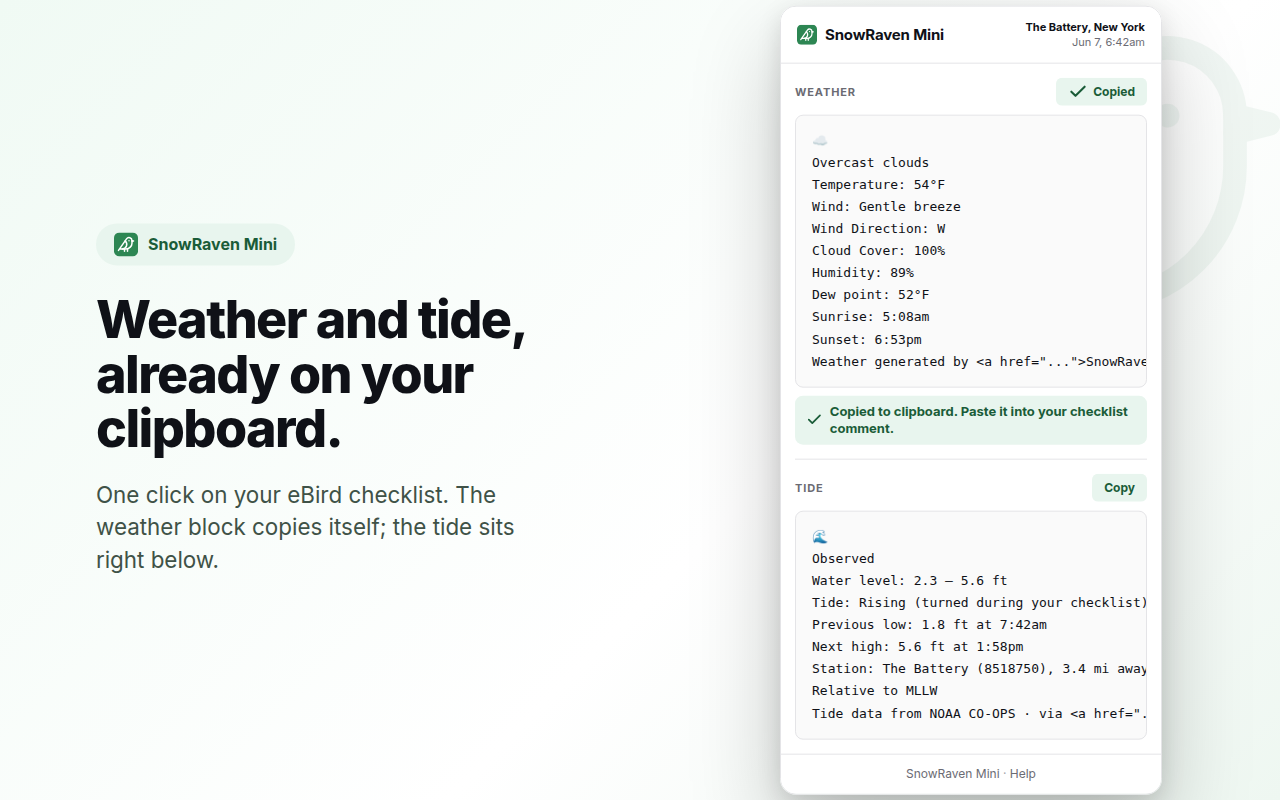
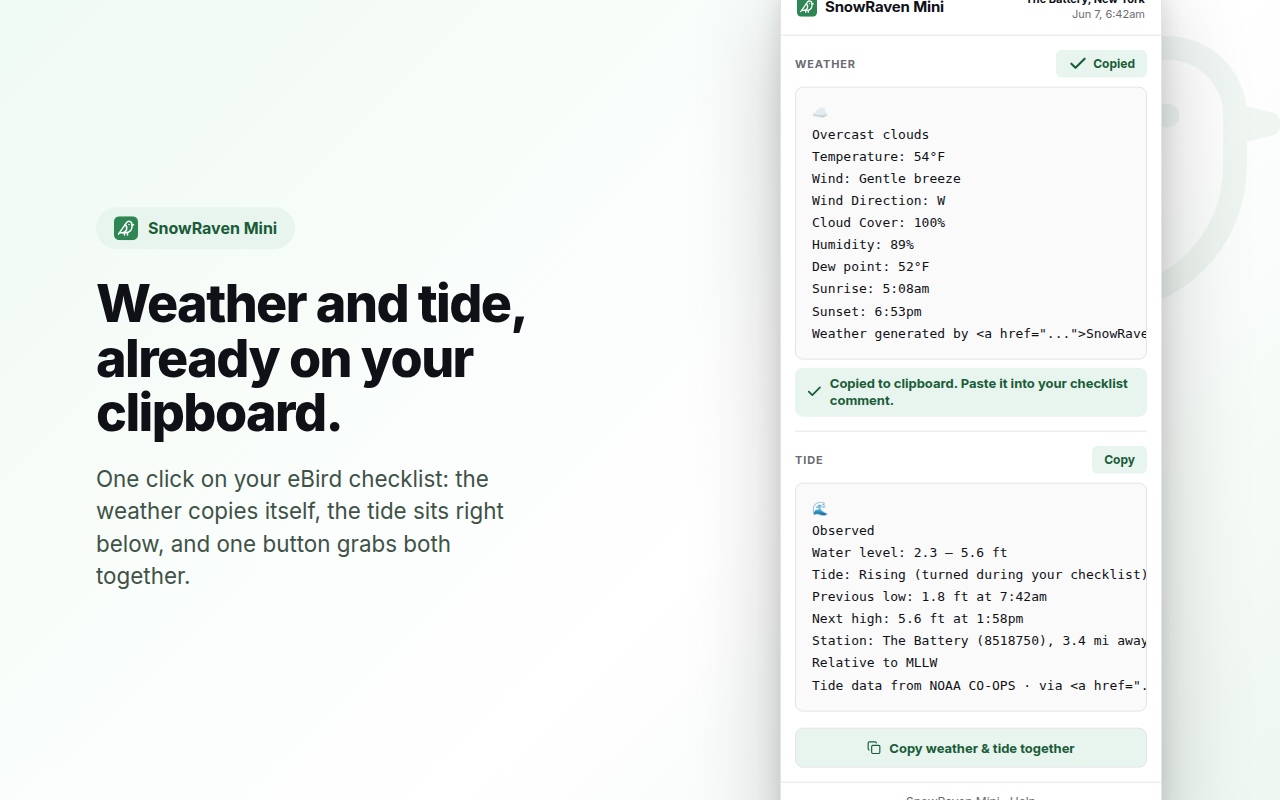
chore(store): show the v1.3.0 features in the listing screenshots
The result screenshot now includes the "Copy weather & tide together" button,
and a new first-run setup screenshot (light + dark) shows the key walkthrough —
the per-key checklist with "get a free key" links and "Go to Settings". The
asset generator gains the combined-copy button and walkthrough markup, built on
the real --sr-* tokens (no new colors), so the shots match the shipped UI.
Store README + Chrome/Firefox submit checklists list the new setup shot.

Listing assets only — no extension, build, or version change.

diff --git a/store/assets/render/screenshot-1-result-dark.html b/store/assets/render/screenshot-1-result-dark.html
@@ -106,12 +106,36 @@ body{font-family:var(--sr-font-sans);-webkit-font-smoothing:antialiased}
 .sr-privacy{margin-top:20px;padding-top:18px;border-top:1px solid var(--sr-border);display:flex;align-items:center;gap:8px;font-size:.8125rem;color:var(--sr-muted-fg)}
 .sr-privacy svg{color:var(--sr-primary);flex-shrink:0}
 
+/* first-run walkthrough + combined copy (the v1.3.0 additions) */
+.sr-notice{display:flex;align-items:flex-start;gap:9px;padding:12px 13px;border-radius:8px;font-size:.8125rem;line-height:1.5}
+.sr-notice-neutral{background:var(--sr-muted);border:1px solid var(--sr-border);color:var(--sr-fg)}
+.sr-notice-neutral .sr-ico{color:var(--sr-muted-fg)}
+.sr-link-action{background:none;border:0;padding:0;font:inherit;font-size:.8125rem;font-weight:600;color:var(--sr-primary);display:inline-flex;align-items:center;gap:3px}
+.sr-walk{gap:11px;flex-direction:column;align-items:stretch}
+.sr-walk-head{display:flex;align-items:flex-start;gap:9px}
+.sr-walk-head .sr-ico{flex-shrink:0;margin-top:1px;color:var(--sr-muted-fg)}
+.sr-walk-title{font-weight:600}
+.sr-walk-lead{color:var(--sr-muted-fg);margin-top:3px;line-height:1.5}
+.sr-keylist{list-style:none;margin:2px 0 0;padding:0;display:flex;flex-direction:column;gap:7px}
+.sr-keyrow{display:flex;align-items:center;gap:9px;padding:9px 11px;border-radius:7px;background:var(--sr-bg);border:1px solid var(--sr-border)}
+.sr-keyrow .sr-keymark{flex-shrink:0;width:22px;height:22px;border-radius:6px;display:inline-flex;align-items:center;justify-content:center}
+.sr-keyrow.is-needed .sr-keymark{background:var(--sr-muted);color:var(--sr-muted-fg)}
+.sr-keyrow.is-set .sr-keymark{background:var(--sr-accent);color:var(--sr-accent-fg)}
+.sr-keyrow .sr-keytext{flex:1;min-width:0;display:flex;flex-direction:column}
+.sr-keyrow .sr-keyname{font-weight:600;font-size:.8125rem}
+.sr-keyrow .sr-keystate{font-size:.6875rem;color:var(--sr-muted-fg)}
+.sr-keyrow.is-set .sr-keystate{color:var(--sr-accent-fg);font-weight:600}
+.sr-keyrow .sr-getkey{font-size:.75rem;font-weight:600;flex-shrink:0;display:inline-flex;align-items:center;gap:3px;color:var(--sr-primary);text-decoration:none}
+.sr-walk-foot{display:flex;align-items:center;justify-content:space-between;gap:10px;margin-top:3px}
+.sr-walk-foot .sr-free{font-size:.75rem;color:var(--sr-muted-fg)}
+.sr-btn-combined{width:100%;min-height:40px;padding:0 16px;margin-top:2px;background:var(--sr-accent);color:var(--sr-accent-fg);border:1.5px solid var(--sr-border);border-radius:var(--sr-radius);font:inherit;font-size:.8125rem;font-weight:600;display:inline-flex;align-items:center;justify-content:center;gap:8px}
+
   html,body{width:1280px;height:800px;overflow:hidden;background:#fff}</style></head><body><div class="shot dark" style="width:1280px;height:800px">
     <svg class="wm" viewBox="0 0 32 32" aria-hidden="true"><g transform="translate(4,4)" stroke="var(--wm)" stroke-width="1.4" stroke-linecap="round" stroke-linejoin="round" fill="none"><path d="M16 7h.01"/><path d="M3.4 18H12a8 8 0 0 0 8-8V7a4 4 0 0 0-7.28-2.3L2 20"/><path d="m20 7 2 .5-2 .5"/><path d="M10 18v3"/><path d="M14 17.75V21"/><path d="M7 18a6 6 0 0 0 3.84-10.61"/></g></svg>
     <div class="copy">
       <span class="kicker"><svg width="24" height="24" viewBox="0 0 32 32"><rect width="32" height="32" rx="7" fill="#2D8653"/><g transform="translate(4,4)" stroke="#fff" stroke-width="2" stroke-linecap="round" stroke-linejoin="round" fill="none"><path d="M16 7h.01"/><path d="M3.4 18H12a8 8 0 0 0 8-8V7a4 4 0 0 0-7.28-2.3L2 20"/><path d="m20 7 2 .5-2 .5"/><path d="M10 18v3"/><path d="M14 17.75V21"/><path d="M7 18a6 6 0 0 0 3.84-10.61"/></g></svg> SnowRaven Mini</span>
       <h3>Weather and tide, already on your clipboard.</h3>
-      <p>One click on your eBird checklist. The weather block copies itself; the tide sits right below.</p>
+      <p>One click on your eBird checklist: the weather copies itself, the tide sits right below, and one button grabs both together.</p>
     </div>
     <div class="device"><div class="dark"><div class="sr-popup">
     <div class="sr-pop-head"><span class="sr-brand"><svg width="20" height="20" viewBox="0 0 32 32"><rect width="32" height="32" rx="7" fill="#2D8653"/><g transform="translate(4,4)" stroke="#fff" stroke-width="2" stroke-linecap="round" stroke-linejoin="round" fill="none"><path d="M16 7h.01"/><path d="M3.4 18H12a8 8 0 0 0 8-8V7a4 4 0 0 0-7.28-2.3L2 20"/><path d="m20 7 2 .5-2 .5"/><path d="M10 18v3"/><path d="M14 17.75V21"/><path d="M7 18a6 6 0 0 0 3.84-10.61"/></g></svg> SnowRaven Mini</span><span class="sr-pop-context"><span class="sr-loc">The Battery, New York</span>Jun 7, 6:42am</span></div>
@@ -144,6 +168,7 @@ Station: The Battery (8518750), 3.4 mi away
 Relative to MLLW
 Tide data from NOAA CO-OPS &middot; via &lt;a href="..."&gt;SnowRaven&lt;/a&gt;</pre>
       </div>
+      <button class="sr-btn-combined"><svg width="14" height="14" viewBox="0 0 24 24" fill="none" stroke="currentColor" stroke-width="2" stroke-linecap="round" stroke-linejoin="round"><rect width="14" height="14" x="8" y="8" rx="2" ry="2"/><path d="M4 16c-1.1 0-2-.9-2-2V4c0-1.1.9-2 2-2h10c1.1 0 2 .9 2 2"/></svg> Copy weather &amp; tide together</button>
     </div><div class="sr-footer"><a>SnowRaven Mini</a> <span>&middot;</span> <a>Help</a></div>
   </div></div></div>
   </div></body></html>

diff --git a/store/assets/render/screenshot-1-result-light.html b/store/assets/render/screenshot-1-result-light.html
@@ -106,12 +106,36 @@ body{font-family:var(--sr-font-sans);-webkit-font-smoothing:antialiased}
 .sr-privacy{margin-top:20px;padding-top:18px;border-top:1px solid var(--sr-border);display:flex;align-items:center;gap:8px;font-size:.8125rem;color:var(--sr-muted-fg)}
 .sr-privacy svg{color:var(--sr-primary);flex-shrink:0}
 
+/* first-run walkthrough + combined copy (the v1.3.0 additions) */
+.sr-notice{display:flex;align-items:flex-start;gap:9px;padding:12px 13px;border-radius:8px;font-size:.8125rem;line-height:1.5}
+.sr-notice-neutral{background:var(--sr-muted);border:1px solid var(--sr-border);color:var(--sr-fg)}
+.sr-notice-neutral .sr-ico{color:var(--sr-muted-fg)}
+.sr-link-action{background:none;border:0;padding:0;font:inherit;font-size:.8125rem;font-weight:600;color:var(--sr-primary);display:inline-flex;align-items:center;gap:3px}
+.sr-walk{gap:11px;flex-direction:column;align-items:stretch}
+.sr-walk-head{display:flex;align-items:flex-start;gap:9px}
+.sr-walk-head .sr-ico{flex-shrink:0;margin-top:1px;color:var(--sr-muted-fg)}
+.sr-walk-title{font-weight:600}
+.sr-walk-lead{color:var(--sr-muted-fg);margin-top:3px;line-height:1.5}
+.sr-keylist{list-style:none;margin:2px 0 0;padding:0;display:flex;flex-direction:column;gap:7px}
+.sr-keyrow{display:flex;align-items:center;gap:9px;padding:9px 11px;border-radius:7px;background:var(--sr-bg);border:1px solid var(--sr-border)}
+.sr-keyrow .sr-keymark{flex-shrink:0;width:22px;height:22px;border-radius:6px;display:inline-flex;align-items:center;justify-content:center}
+.sr-keyrow.is-needed .sr-keymark{background:var(--sr-muted);color:var(--sr-muted-fg)}
+.sr-keyrow.is-set .sr-keymark{background:var(--sr-accent);color:var(--sr-accent-fg)}
+.sr-keyrow .sr-keytext{flex:1;min-width:0;display:flex;flex-direction:column}
+.sr-keyrow .sr-keyname{font-weight:600;font-size:.8125rem}
+.sr-keyrow .sr-keystate{font-size:.6875rem;color:var(--sr-muted-fg)}
+.sr-keyrow.is-set .sr-keystate{color:var(--sr-accent-fg);font-weight:600}
+.sr-keyrow .sr-getkey{font-size:.75rem;font-weight:600;flex-shrink:0;display:inline-flex;align-items:center;gap:3px;color:var(--sr-primary);text-decoration:none}
+.sr-walk-foot{display:flex;align-items:center;justify-content:space-between;gap:10px;margin-top:3px}
+.sr-walk-foot .sr-free{font-size:.75rem;color:var(--sr-muted-fg)}
+.sr-btn-combined{width:100%;min-height:40px;padding:0 16px;margin-top:2px;background:var(--sr-accent);color:var(--sr-accent-fg);border:1.5px solid var(--sr-border);border-radius:var(--sr-radius);font:inherit;font-size:.8125rem;font-weight:600;display:inline-flex;align-items:center;justify-content:center;gap:8px}
+
   html,body{width:1280px;height:800px;overflow:hidden;background:#fff}</style></head><body><div class="shot " style="width:1280px;height:800px">
     <svg class="wm" viewBox="0 0 32 32" aria-hidden="true"><g transform="translate(4,4)" stroke="var(--wm)" stroke-width="1.4" stroke-linecap="round" stroke-linejoin="round" fill="none"><path d="M16 7h.01"/><path d="M3.4 18H12a8 8 0 0 0 8-8V7a4 4 0 0 0-7.28-2.3L2 20"/><path d="m20 7 2 .5-2 .5"/><path d="M10 18v3"/><path d="M14 17.75V21"/><path d="M7 18a6 6 0 0 0 3.84-10.61"/></g></svg>
     <div class="copy">
       <span class="kicker"><svg width="24" height="24" viewBox="0 0 32 32"><rect width="32" height="32" rx="7" fill="#2D8653"/><g transform="translate(4,4)" stroke="#fff" stroke-width="2" stroke-linecap="round" stroke-linejoin="round" fill="none"><path d="M16 7h.01"/><path d="M3.4 18H12a8 8 0 0 0 8-8V7a4 4 0 0 0-7.28-2.3L2 20"/><path d="m20 7 2 .5-2 .5"/><path d="M10 18v3"/><path d="M14 17.75V21"/><path d="M7 18a6 6 0 0 0 3.84-10.61"/></g></svg> SnowRaven Mini</span>
       <h3>Weather and tide, already on your clipboard.</h3>
-      <p>One click on your eBird checklist. The weather block copies itself; the tide sits right below.</p>
+      <p>One click on your eBird checklist: the weather copies itself, the tide sits right below, and one button grabs both together.</p>
     </div>
     <div class="device"><div class="sr-popup">
     <div class="sr-pop-head"><span class="sr-brand"><svg width="20" height="20" viewBox="0 0 32 32"><rect width="32" height="32" rx="7" fill="#2D8653"/><g transform="translate(4,4)" stroke="#fff" stroke-width="2" stroke-linecap="round" stroke-linejoin="round" fill="none"><path d="M16 7h.01"/><path d="M3.4 18H12a8 8 0 0 0 8-8V7a4 4 0 0 0-7.28-2.3L2 20"/><path d="m20 7 2 .5-2 .5"/><path d="M10 18v3"/><path d="M14 17.75V21"/><path d="M7 18a6 6 0 0 0 3.84-10.61"/></g></svg> SnowRaven Mini</span><span class="sr-pop-context"><span class="sr-loc">The Battery, New York</span>Jun 7, 6:42am</span></div>
@@ -144,6 +168,7 @@ Station: The Battery (8518750), 3.4 mi away
 Relative to MLLW
 Tide data from NOAA CO-OPS &middot; via &lt;a href="..."&gt;SnowRaven&lt;/a&gt;</pre>
       </div>
+      <button class="sr-btn-combined"><svg width="14" height="14" viewBox="0 0 24 24" fill="none" stroke="currentColor" stroke-width="2" stroke-linecap="round" stroke-linejoin="round"><rect width="14" height="14" x="8" y="8" rx="2" ry="2"/><path d="M4 16c-1.1 0-2-.9-2-2V4c0-1.1.9-2 2-2h10c1.1 0 2 .9 2 2"/></svg> Copy weather &amp; tide together</button>
     </div><div class="sr-footer"><a>SnowRaven Mini</a> <span>&middot;</span> <a>Help</a></div>
   </div></div>
   </div></body></html>

diff --git a/store/assets/render/promo-tile-440x280.html b/store/assets/render/promo-tile-440x280.html
@@ -106,6 +106,30 @@ body{font-family:var(--sr-font-sans);-webkit-font-smoothing:antialiased}
 .sr-privacy{margin-top:20px;padding-top:18px;border-top:1px solid var(--sr-border);display:flex;align-items:center;gap:8px;font-size:.8125rem;color:var(--sr-muted-fg)}
 .sr-privacy svg{color:var(--sr-primary);flex-shrink:0}
 
+/* first-run walkthrough + combined copy (the v1.3.0 additions) */
+.sr-notice{display:flex;align-items:flex-start;gap:9px;padding:12px 13px;border-radius:8px;font-size:.8125rem;line-height:1.5}
+.sr-notice-neutral{background:var(--sr-muted);border:1px solid var(--sr-border);color:var(--sr-fg)}
+.sr-notice-neutral .sr-ico{color:var(--sr-muted-fg)}
+.sr-link-action{background:none;border:0;padding:0;font:inherit;font-size:.8125rem;font-weight:600;color:var(--sr-primary);display:inline-flex;align-items:center;gap:3px}
+.sr-walk{gap:11px;flex-direction:column;align-items:stretch}
+.sr-walk-head{display:flex;align-items:flex-start;gap:9px}
+.sr-walk-head .sr-ico{flex-shrink:0;margin-top:1px;color:var(--sr-muted-fg)}
+.sr-walk-title{font-weight:600}
+.sr-walk-lead{color:var(--sr-muted-fg);margin-top:3px;line-height:1.5}
+.sr-keylist{list-style:none;margin:2px 0 0;padding:0;display:flex;flex-direction:column;gap:7px}
+.sr-keyrow{display:flex;align-items:center;gap:9px;padding:9px 11px;border-radius:7px;background:var(--sr-bg);border:1px solid var(--sr-border)}
+.sr-keyrow .sr-keymark{flex-shrink:0;width:22px;height:22px;border-radius:6px;display:inline-flex;align-items:center;justify-content:center}
+.sr-keyrow.is-needed .sr-keymark{background:var(--sr-muted);color:var(--sr-muted-fg)}
+.sr-keyrow.is-set .sr-keymark{background:var(--sr-accent);color:var(--sr-accent-fg)}
+.sr-keyrow .sr-keytext{flex:1;min-width:0;display:flex;flex-direction:column}
+.sr-keyrow .sr-keyname{font-weight:600;font-size:.8125rem}
+.sr-keyrow .sr-keystate{font-size:.6875rem;color:var(--sr-muted-fg)}
+.sr-keyrow.is-set .sr-keystate{color:var(--sr-accent-fg);font-weight:600}
+.sr-keyrow .sr-getkey{font-size:.75rem;font-weight:600;flex-shrink:0;display:inline-flex;align-items:center;gap:3px;color:var(--sr-primary);text-decoration:none}
+.sr-walk-foot{display:flex;align-items:center;justify-content:space-between;gap:10px;margin-top:3px}
+.sr-walk-foot .sr-free{font-size:.75rem;color:var(--sr-muted-fg)}
+.sr-btn-combined{width:100%;min-height:40px;padding:0 16px;margin-top:2px;background:var(--sr-accent);color:var(--sr-accent-fg);border:1.5px solid var(--sr-border);border-radius:var(--sr-radius);font:inherit;font-size:.8125rem;font-weight:600;display:inline-flex;align-items:center;justify-content:center;gap:8px}
+
   html,body{width:440px;height:280px;overflow:hidden;background:#fff}</style></head><body><div class="promo" style="width:440px;height:280px">
     <div class="pad">
       <div class="top"><span class="t"><svg width="60" height="60" viewBox="0 0 32 32"><rect width="32" height="32" rx="7" fill="#2D8653"/><g transform="translate(4,4)" stroke="#fff" stroke-width="2" stroke-linecap="round" stroke-linejoin="round" fill="none"><path d="M16 7h.01"/><path d="M3.4 18H12a8 8 0 0 0 8-8V7a4 4 0 0 0-7.28-2.3L2 20"/><path d="m20 7 2 .5-2 .5"/><path d="M10 18v3"/><path d="M14 17.75V21"/><path d="M7 18a6 6 0 0 0 3.84-10.61"/></g></svg></span><div class="word">SnowRaven<br>Mini</div></div>

diff --git a/store/assets/render/screenshot-2-options-light.html b/store/assets/render/screenshot-2-options-light.html
@@ -106,6 +106,30 @@ body{font-family:var(--sr-font-sans);-webkit-font-smoothing:antialiased}
 .sr-privacy{margin-top:20px;padding-top:18px;border-top:1px solid var(--sr-border);display:flex;align-items:center;gap:8px;font-size:.8125rem;color:var(--sr-muted-fg)}
 .sr-privacy svg{color:var(--sr-primary);flex-shrink:0}
 
+/* first-run walkthrough + combined copy (the v1.3.0 additions) */
+.sr-notice{display:flex;align-items:flex-start;gap:9px;padding:12px 13px;border-radius:8px;font-size:.8125rem;line-height:1.5}
+.sr-notice-neutral{background:var(--sr-muted);border:1px solid var(--sr-border);color:var(--sr-fg)}
+.sr-notice-neutral .sr-ico{color:var(--sr-muted-fg)}
+.sr-link-action{background:none;border:0;padding:0;font:inherit;font-size:.8125rem;font-weight:600;color:var(--sr-primary);display:inline-flex;align-items:center;gap:3px}
+.sr-walk{gap:11px;flex-direction:column;align-items:stretch}
+.sr-walk-head{display:flex;align-items:flex-start;gap:9px}
+.sr-walk-head .sr-ico{flex-shrink:0;margin-top:1px;color:var(--sr-muted-fg)}
+.sr-walk-title{font-weight:600}
+.sr-walk-lead{color:var(--sr-muted-fg);margin-top:3px;line-height:1.5}
+.sr-keylist{list-style:none;margin:2px 0 0;padding:0;display:flex;flex-direction:column;gap:7px}
+.sr-keyrow{display:flex;align-items:center;gap:9px;padding:9px 11px;border-radius:7px;background:var(--sr-bg);border:1px solid var(--sr-border)}
+.sr-keyrow .sr-keymark{flex-shrink:0;width:22px;height:22px;border-radius:6px;display:inline-flex;align-items:center;justify-content:center}
+.sr-keyrow.is-needed .sr-keymark{background:var(--sr-muted);color:var(--sr-muted-fg)}
+.sr-keyrow.is-set .sr-keymark{background:var(--sr-accent);color:var(--sr-accent-fg)}
+.sr-keyrow .sr-keytext{flex:1;min-width:0;display:flex;flex-direction:column}
+.sr-keyrow .sr-keyname{font-weight:600;font-size:.8125rem}
+.sr-keyrow .sr-keystate{font-size:.6875rem;color:var(--sr-muted-fg)}
+.sr-keyrow.is-set .sr-keystate{color:var(--sr-accent-fg);font-weight:600}
+.sr-keyrow .sr-getkey{font-size:.75rem;font-weight:600;flex-shrink:0;display:inline-flex;align-items:center;gap:3px;color:var(--sr-primary);text-decoration:none}
+.sr-walk-foot{display:flex;align-items:center;justify-content:space-between;gap:10px;margin-top:3px}
+.sr-walk-foot .sr-free{font-size:.75rem;color:var(--sr-muted-fg)}
+.sr-btn-combined{width:100%;min-height:40px;padding:0 16px;margin-top:2px;background:var(--sr-accent);color:var(--sr-accent-fg);border:1.5px solid var(--sr-border);border-radius:var(--sr-radius);font:inherit;font-size:.8125rem;font-weight:600;display:inline-flex;align-items:center;justify-content:center;gap:8px}
+
   html,body{width:1280px;height:800px;overflow:hidden;background:#fff}</style></head><body><div class="shot " style="width:1280px;height:800px">
     <svg class="wm" viewBox="0 0 32 32" aria-hidden="true"><g transform="translate(4,4)" stroke="var(--wm)" stroke-width="1.4" stroke-linecap="round" stroke-linejoin="round" fill="none"><path d="M16 7h.01"/><path d="M3.4 18H12a8 8 0 0 0 8-8V7a4 4 0 0 0-7.28-2.3L2 20"/><path d="m20 7 2 .5-2 .5"/><path d="M10 18v3"/><path d="M14 17.75V21"/><path d="M7 18a6 6 0 0 0 3.84-10.61"/></g></svg>
     <div class="copy">

diff --git a/store/assets/render/screenshot-3-permission-light.html b/store/assets/render/screenshot-3-permission-light.html
@@ -106,6 +106,30 @@ body{font-family:var(--sr-font-sans);-webkit-font-smoothing:antialiased}
 .sr-privacy{margin-top:20px;padding-top:18px;border-top:1px solid var(--sr-border);display:flex;align-items:center;gap:8px;font-size:.8125rem;color:var(--sr-muted-fg)}
 .sr-privacy svg{color:var(--sr-primary);flex-shrink:0}
 
+/* first-run walkthrough + combined copy (the v1.3.0 additions) */
+.sr-notice{display:flex;align-items:flex-start;gap:9px;padding:12px 13px;border-radius:8px;font-size:.8125rem;line-height:1.5}
+.sr-notice-neutral{background:var(--sr-muted);border:1px solid var(--sr-border);color:var(--sr-fg)}
+.sr-notice-neutral .sr-ico{color:var(--sr-muted-fg)}
+.sr-link-action{background:none;border:0;padding:0;font:inherit;font-size:.8125rem;font-weight:600;color:var(--sr-primary);display:inline-flex;align-items:center;gap:3px}
+.sr-walk{gap:11px;flex-direction:column;align-items:stretch}
+.sr-walk-head{display:flex;align-items:flex-start;gap:9px}
+.sr-walk-head .sr-ico{flex-shrink:0;margin-top:1px;color:var(--sr-muted-fg)}
+.sr-walk-title{font-weight:600}
+.sr-walk-lead{color:var(--sr-muted-fg);margin-top:3px;line-height:1.5}
+.sr-keylist{list-style:none;margin:2px 0 0;padding:0;display:flex;flex-direction:column;gap:7px}
+.sr-keyrow{display:flex;align-items:center;gap:9px;padding:9px 11px;border-radius:7px;background:var(--sr-bg);border:1px solid var(--sr-border)}
+.sr-keyrow .sr-keymark{flex-shrink:0;width:22px;height:22px;border-radius:6px;display:inline-flex;align-items:center;justify-content:center}
+.sr-keyrow.is-needed .sr-keymark{background:var(--sr-muted);color:var(--sr-muted-fg)}
+.sr-keyrow.is-set .sr-keymark{background:var(--sr-accent);color:var(--sr-accent-fg)}
+.sr-keyrow .sr-keytext{flex:1;min-width:0;display:flex;flex-direction:column}
+.sr-keyrow .sr-keyname{font-weight:600;font-size:.8125rem}
+.sr-keyrow .sr-keystate{font-size:.6875rem;color:var(--sr-muted-fg)}
+.sr-keyrow.is-set .sr-keystate{color:var(--sr-accent-fg);font-weight:600}
+.sr-keyrow .sr-getkey{font-size:.75rem;font-weight:600;flex-shrink:0;display:inline-flex;align-items:center;gap:3px;color:var(--sr-primary);text-decoration:none}
+.sr-walk-foot{display:flex;align-items:center;justify-content:space-between;gap:10px;margin-top:3px}
+.sr-walk-foot .sr-free{font-size:.75rem;color:var(--sr-muted-fg)}
+.sr-btn-combined{width:100%;min-height:40px;padding:0 16px;margin-top:2px;background:var(--sr-accent);color:var(--sr-accent-fg);border:1.5px solid var(--sr-border);border-radius:var(--sr-radius);font:inherit;font-size:.8125rem;font-weight:600;display:inline-flex;align-items:center;justify-content:center;gap:8px}
+
   html,body{width:1280px;height:800px;overflow:hidden;background:#fff}</style></head><body><div class="shot " style="width:1280px;height:800px">
     <svg class="wm" viewBox="0 0 32 32" aria-hidden="true"><g transform="translate(4,4)" stroke="var(--wm)" stroke-width="1.4" stroke-linecap="round" stroke-linejoin="round" fill="none"><path d="M16 7h.01"/><path d="M3.4 18H12a8 8 0 0 0 8-8V7a4 4 0 0 0-7.28-2.3L2 20"/><path d="m20 7 2 .5-2 .5"/><path d="M10 18v3"/><path d="M14 17.75V21"/><path d="M7 18a6 6 0 0 0 3.84-10.61"/></g></svg>
     <div class="copy">

diff --git a/store/assets/render/screenshot-4-tide-notice-light.html b/store/assets/render/screenshot-4-tide-notice-light.html
@@ -106,6 +106,30 @@ body{font-family:var(--sr-font-sans);-webkit-font-smoothing:antialiased}
 .sr-privacy{margin-top:20px;padding-top:18px;border-top:1px solid var(--sr-border);display:flex;align-items:center;gap:8px;font-size:.8125rem;color:var(--sr-muted-fg)}
 .sr-privacy svg{color:var(--sr-primary);flex-shrink:0}
 
+/* first-run walkthrough + combined copy (the v1.3.0 additions) */
+.sr-notice{display:flex;align-items:flex-start;gap:9px;padding:12px 13px;border-radius:8px;font-size:.8125rem;line-height:1.5}
+.sr-notice-neutral{background:var(--sr-muted);border:1px solid var(--sr-border);color:var(--sr-fg)}
+.sr-notice-neutral .sr-ico{color:var(--sr-muted-fg)}
+.sr-link-action{background:none;border:0;padding:0;font:inherit;font-size:.8125rem;font-weight:600;color:var(--sr-primary);display:inline-flex;align-items:center;gap:3px}
+.sr-walk{gap:11px;flex-direction:column;align-items:stretch}
+.sr-walk-head{display:flex;align-items:flex-start;gap:9px}
+.sr-walk-head .sr-ico{flex-shrink:0;margin-top:1px;color:var(--sr-muted-fg)}
+.sr-walk-title{font-weight:600}
+.sr-walk-lead{color:var(--sr-muted-fg);margin-top:3px;line-height:1.5}
+.sr-keylist{list-style:none;margin:2px 0 0;padding:0;display:flex;flex-direction:column;gap:7px}
+.sr-keyrow{display:flex;align-items:center;gap:9px;padding:9px 11px;border-radius:7px;background:var(--sr-bg);border:1px solid var(--sr-border)}
+.sr-keyrow .sr-keymark{flex-shrink:0;width:22px;height:22px;border-radius:6px;display:inline-flex;align-items:center;justify-content:center}
+.sr-keyrow.is-needed .sr-keymark{background:var(--sr-muted);color:var(--sr-muted-fg)}
+.sr-keyrow.is-set .sr-keymark{background:var(--sr-accent);color:var(--sr-accent-fg)}
+.sr-keyrow .sr-keytext{flex:1;min-width:0;display:flex;flex-direction:column}
+.sr-keyrow .sr-keyname{font-weight:600;font-size:.8125rem}
+.sr-keyrow .sr-keystate{font-size:.6875rem;color:var(--sr-muted-fg)}
+.sr-keyrow.is-set .sr-keystate{color:var(--sr-accent-fg);font-weight:600}
+.sr-keyrow .sr-getkey{font-size:.75rem;font-weight:600;flex-shrink:0;display:inline-flex;align-items:center;gap:3px;color:var(--sr-primary);text-decoration:none}
+.sr-walk-foot{display:flex;align-items:center;justify-content:space-between;gap:10px;margin-top:3px}
+.sr-walk-foot .sr-free{font-size:.75rem;color:var(--sr-muted-fg)}
+.sr-btn-combined{width:100%;min-height:40px;padding:0 16px;margin-top:2px;background:var(--sr-accent);color:var(--sr-accent-fg);border:1.5px solid var(--sr-border);border-radius:var(--sr-radius);font:inherit;font-size:.8125rem;font-weight:600;display:inline-flex;align-items:center;justify-content:center;gap:8px}
+
   html,body{width:1280px;height:800px;overflow:hidden;background:#fff}</style></head><body><div class="shot " style="width:1280px;height:800px">
     <svg class="wm" viewBox="0 0 32 32" aria-hidden="true"><g transform="translate(4,4)" stroke="var(--wm)" stroke-width="1.4" stroke-linecap="round" stroke-linejoin="round" fill="none"><path d="M16 7h.01"/><path d="M3.4 18H12a8 8 0 0 0 8-8V7a4 4 0 0 0-7.28-2.3L2 20"/><path d="m20 7 2 .5-2 .5"/><path d="M10 18v3"/><path d="M14 17.75V21"/><path d="M7 18a6 6 0 0 0 3.84-10.61"/></g></svg>
     <div class="copy">

diff --git a/store/assets/render/screenshot-5-checklist-view-light.html b/store/assets/render/screenshot-5-checklist-view-light.html
@@ -106,6 +106,30 @@ body{font-family:var(--sr-font-sans);-webkit-font-smoothing:antialiased}
 .sr-privacy{margin-top:20px;padding-top:18px;border-top:1px solid var(--sr-border);display:flex;align-items:center;gap:8px;font-size:.8125rem;color:var(--sr-muted-fg)}
 .sr-privacy svg{color:var(--sr-primary);flex-shrink:0}
 
+/* first-run walkthrough + combined copy (the v1.3.0 additions) */
+.sr-notice{display:flex;align-items:flex-start;gap:9px;padding:12px 13px;border-radius:8px;font-size:.8125rem;line-height:1.5}
+.sr-notice-neutral{background:var(--sr-muted);border:1px solid var(--sr-border);color:var(--sr-fg)}
+.sr-notice-neutral .sr-ico{color:var(--sr-muted-fg)}
+.sr-link-action{background:none;border:0;padding:0;font:inherit;font-size:.8125rem;font-weight:600;color:var(--sr-primary);display:inline-flex;align-items:center;gap:3px}
+.sr-walk{gap:11px;flex-direction:column;align-items:stretch}
+.sr-walk-head{display:flex;align-items:flex-start;gap:9px}
+.sr-walk-head .sr-ico{flex-shrink:0;margin-top:1px;color:var(--sr-muted-fg)}
+.sr-walk-title{font-weight:600}
+.sr-walk-lead{color:var(--sr-muted-fg);margin-top:3px;line-height:1.5}
+.sr-keylist{list-style:none;margin:2px 0 0;padding:0;display:flex;flex-direction:column;gap:7px}
+.sr-keyrow{display:flex;align-items:center;gap:9px;padding:9px 11px;border-radius:7px;background:var(--sr-bg);border:1px solid var(--sr-border)}
+.sr-keyrow .sr-keymark{flex-shrink:0;width:22px;height:22px;border-radius:6px;display:inline-flex;align-items:center;justify-content:center}
+.sr-keyrow.is-needed .sr-keymark{background:var(--sr-muted);color:var(--sr-muted-fg)}
+.sr-keyrow.is-set .sr-keymark{background:var(--sr-accent);color:var(--sr-accent-fg)}
+.sr-keyrow .sr-keytext{flex:1;min-width:0;display:flex;flex-direction:column}
+.sr-keyrow .sr-keyname{font-weight:600;font-size:.8125rem}
+.sr-keyrow .sr-keystate{font-size:.6875rem;color:var(--sr-muted-fg)}
+.sr-keyrow.is-set .sr-keystate{color:var(--sr-accent-fg);font-weight:600}
+.sr-keyrow .sr-getkey{font-size:.75rem;font-weight:600;flex-shrink:0;display:inline-flex;align-items:center;gap:3px;color:var(--sr-primary);text-decoration:none}
+.sr-walk-foot{display:flex;align-items:center;justify-content:space-between;gap:10px;margin-top:3px}
+.sr-walk-foot .sr-free{font-size:.75rem;color:var(--sr-muted-fg)}
+.sr-btn-combined{width:100%;min-height:40px;padding:0 16px;margin-top:2px;background:var(--sr-accent);color:var(--sr-accent-fg);border:1.5px solid var(--sr-border);border-radius:var(--sr-radius);font:inherit;font-size:.8125rem;font-weight:600;display:inline-flex;align-items:center;justify-content:center;gap:8px}
+
   html,body{width:1280px;height:800px;overflow:hidden;background:#fff}</style></head><body><div class="shot " style="width:1280px;height:800px">
     <svg class="wm" viewBox="0 0 32 32" aria-hidden="true"><g transform="translate(4,4)" stroke="var(--wm)" stroke-width="1.4" stroke-linecap="round" stroke-linejoin="round" fill="none"><path d="M16 7h.01"/><path d="M3.4 18H12a8 8 0 0 0 8-8V7a4 4 0 0 0-7.28-2.3L2 20"/><path d="m20 7 2 .5-2 .5"/><path d="M10 18v3"/><path d="M14 17.75V21"/><path d="M7 18a6 6 0 0 0 3.84-10.61"/></g></svg>
     <div class="copy">

diff --git a/store/chrome-submit-checklist.md b/store/chrome-submit-checklist.md
@@ -20,12 +20,12 @@
 9. Category: **Productivity**. Language: **English**.
 10. Store icon: upload `store/assets/store-icon-128.png` (128x128). If the dashboard objects to transparency, flatten it onto a solid background and re-upload.
 11. Screenshots (1280x800), upload from `store/assets/` in this order:
-    - `screenshot-1-result-light.png`
+    - `screenshot-1-result-light.png` (weather + tide + the "copy both together" button)
+    - `screenshot-6-setup-light.png` (the first-run key walkthrough)
     - `screenshot-2-options-light.png`
     - `screenshot-3-permission-light.png`
     - `screenshot-4-tide-notice-light.png`
-    - `screenshot-5-checklist-view-light.png`
-    (Chrome allows up to 5. The dark variants `screenshot-1-result-dark.png` and `screenshot-2-options-dark.png` are available if you prefer to swap either in.)
+    (Chrome allows up to 5. Also available to swap in: `screenshot-5-checklist-view-light.png` and the dark variants `screenshot-1-result-dark.png`, `screenshot-6-setup-dark.png`, `screenshot-2-options-dark.png`.)
 12. Small promo tile (440x280, required): upload `store/assets/promo-tile-440x280.png`.
 13. Marquee promo tile (1400x560): skip (optional, featured-placement only).
 

diff --git a/store/README.md b/store/README.md
@@ -7,7 +7,7 @@ Everything needed to publish SnowRaven Mini on the Chrome Web Store and Firefox 
 - `permissions-and-privacy.md`: the single-purpose statement, per-permission and per-host justifications, the Chrome data-usage answers, and the Firefox data-collection declaration.
 - `chrome-submit-checklist.md`: step by step for the Chrome Web Store.
 - `firefox-submit-checklist.md`: step by step for Firefox Add-ons (AMO).
-- `assets/`: the images: the 440x280 promo tile, the 128x128 store icon, and the screenshots (1280x800, with light and dark variants for the result and Options shots).
+- `assets/`: the images: the 440x280 promo tile, the 128x128 store icon, and the screenshots (1280x800; the result, first-run setup, and Options shots have light and dark variants).
 - `assets/render/`: the source HTML and embedded fonts used to generate the images. Regenerate any time with `npm run store:assets`.
 
 ## The packages to upload

diff --git a/store/firefox-submit-checklist.md b/store/firefox-submit-checklist.md
@@ -28,7 +28,7 @@
 14. Homepage: `https://github.com/dtgibson/snowraven-mini`
 15. License: **AGPL-3.0**.
 16. Privacy policy: `https://github.com/dtgibson/snowraven-mini/blob/main/PRIVACY_POLICY.md`
-17. Screenshots: upload the five light shots from `store/assets/` (dark variants optional).
+17. Screenshots: upload the light shots from `store/assets/` in a sensible order — result, setup, options, permission, tide-notice, checklist-view (AMO allows up to 10, so the dark variants can go in too if you like).
 
 ## Data collection and reviewer notes
 18. The manifest already declares `data_collection_permissions: { required: ["none"] }`, so AMO reads "collects no data" from the package. Confirm any data-collection prompt reflects that.